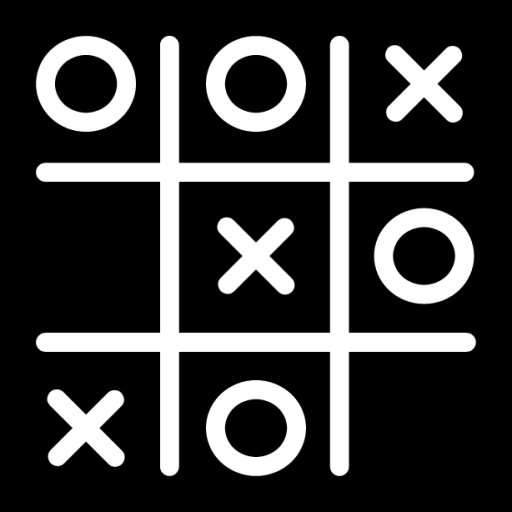
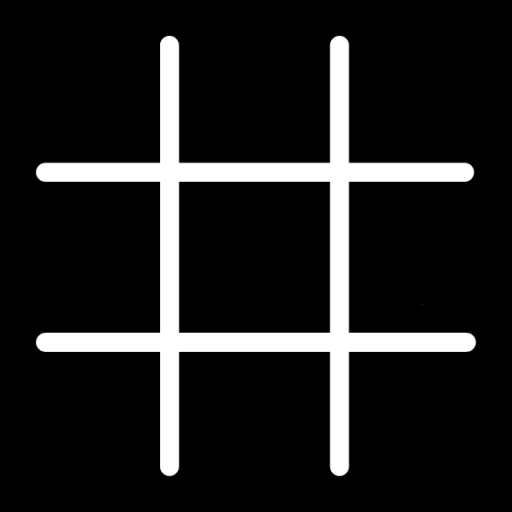
Footer sectiion and animation to X,O has been added, Successfully Completed

diff --git a/src/pages/main.js b/src/pages/main.js
@@ -59,6 +59,11 @@ export const Main=()=>{
 
         if(player1Click && !playArea[row_index-1][col_index-1]){
             document.getElementById(e.target.id).src=require('../images/x.png')
+            document.getElementById(e.target.id).style.animationName='each-img-animation'
+            document.getElementById(e.target.id).style.animationDuration='0.2s';
+            document.getElementById(e.target.id).style.animationDelay='0s'
+            document.getElementById(e.target.id).style.animationTimingFunction='ease-in'
+
             player1Click=false
             player2Click=true
             firstClick=true
@@ -71,6 +76,10 @@ export const Main=()=>{
             player2Click=false
             document.getElementById('span-2').innerText="Player 1's Turn"
             playArea[row_index-1][col_index-1]='Player2'
+            document.getElementById(e.target.id).style.animationName='each-img-animation'
+            document.getElementById(e.target.id).style.animationDuration='0.2s';
+            document.getElementById(e.target.id).style.animationDelay='0s'
+            document.getElementById(e.target.id).style.animationTimingFunction='ease-in'
         }
 
         if(firstClick){
@@ -132,12 +141,13 @@ export const Main=()=>{
                     <img src={require('../images/b.png')} className='each-img' id='threeTwo32' onClick={handleXOClick} alt='b-img'/>
                     <img src={require('../images/b.png')} className='each-img' id='threeThree33' onClick={handleXOClick} alt='b-img'/>
                 </div>
+
+                <footer>
+                    <p><a href="https://github.com/AzmatullaKhan">Copyright © All Rights Reserved 2024 Azmatulla Khan ®</a></p>
+                </footer>
             </div>
         
         </div>
     )
 }
 
-
-
-// 145*140

diff --git a/src/pages/allPages.css b/src/pages/allPages.css
@@ -63,7 +63,7 @@ button:hover{
 .game-space-fake{
     background-size: contain;
     background-repeat: no-repeat;
-    background-image: url('../images/tic-tac-toe.png');
+    background-image: url('../images/tic-tac-toe-fake.png');
     height:400px;
     width:437px;
     padding: 20px 15px;
@@ -90,4 +90,15 @@ button:hover{
     width: 100px;
     margin-right: 35px;
     margin-bottom: 27px;
+}
+
+@keyframes each-img-animation {
+    0%{opacity: 0;}
+    100%{opacity: 1;}
+}
+
+footer{
+    position: absolute;
+    top:543px;
+    font-size: 18px;
 }
